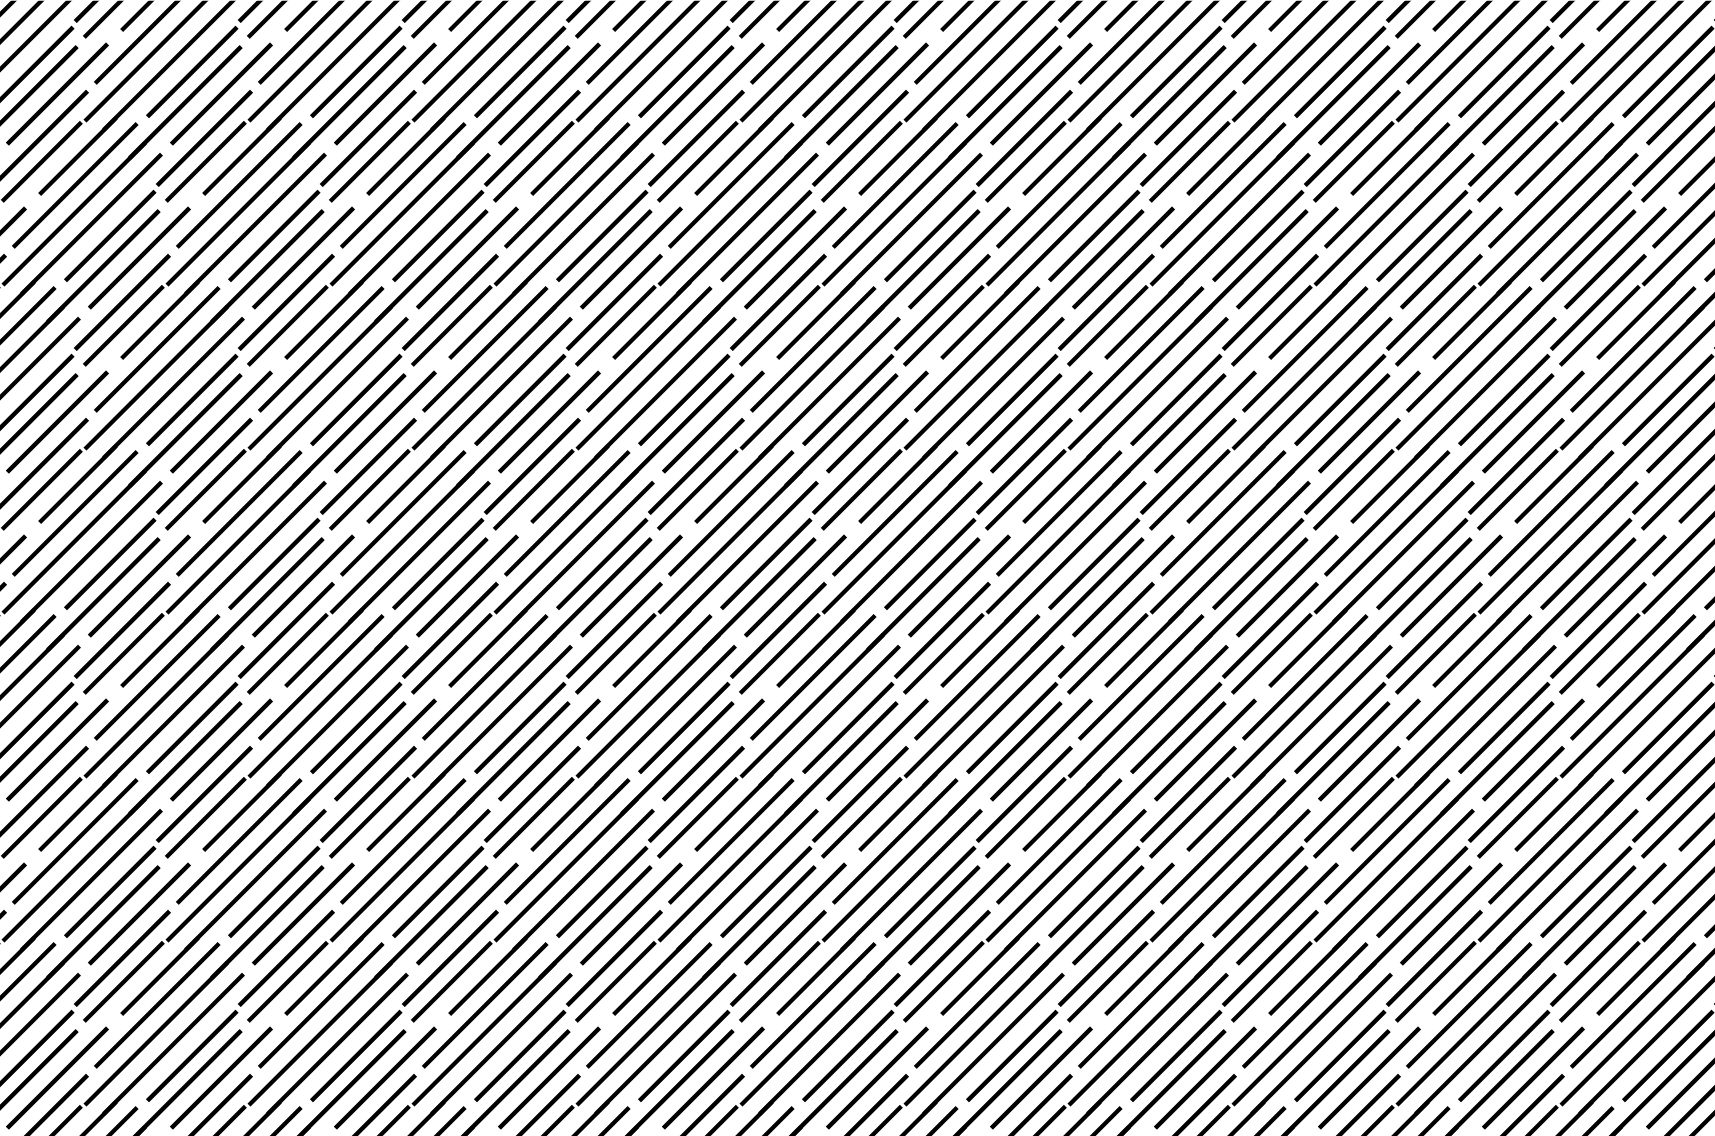
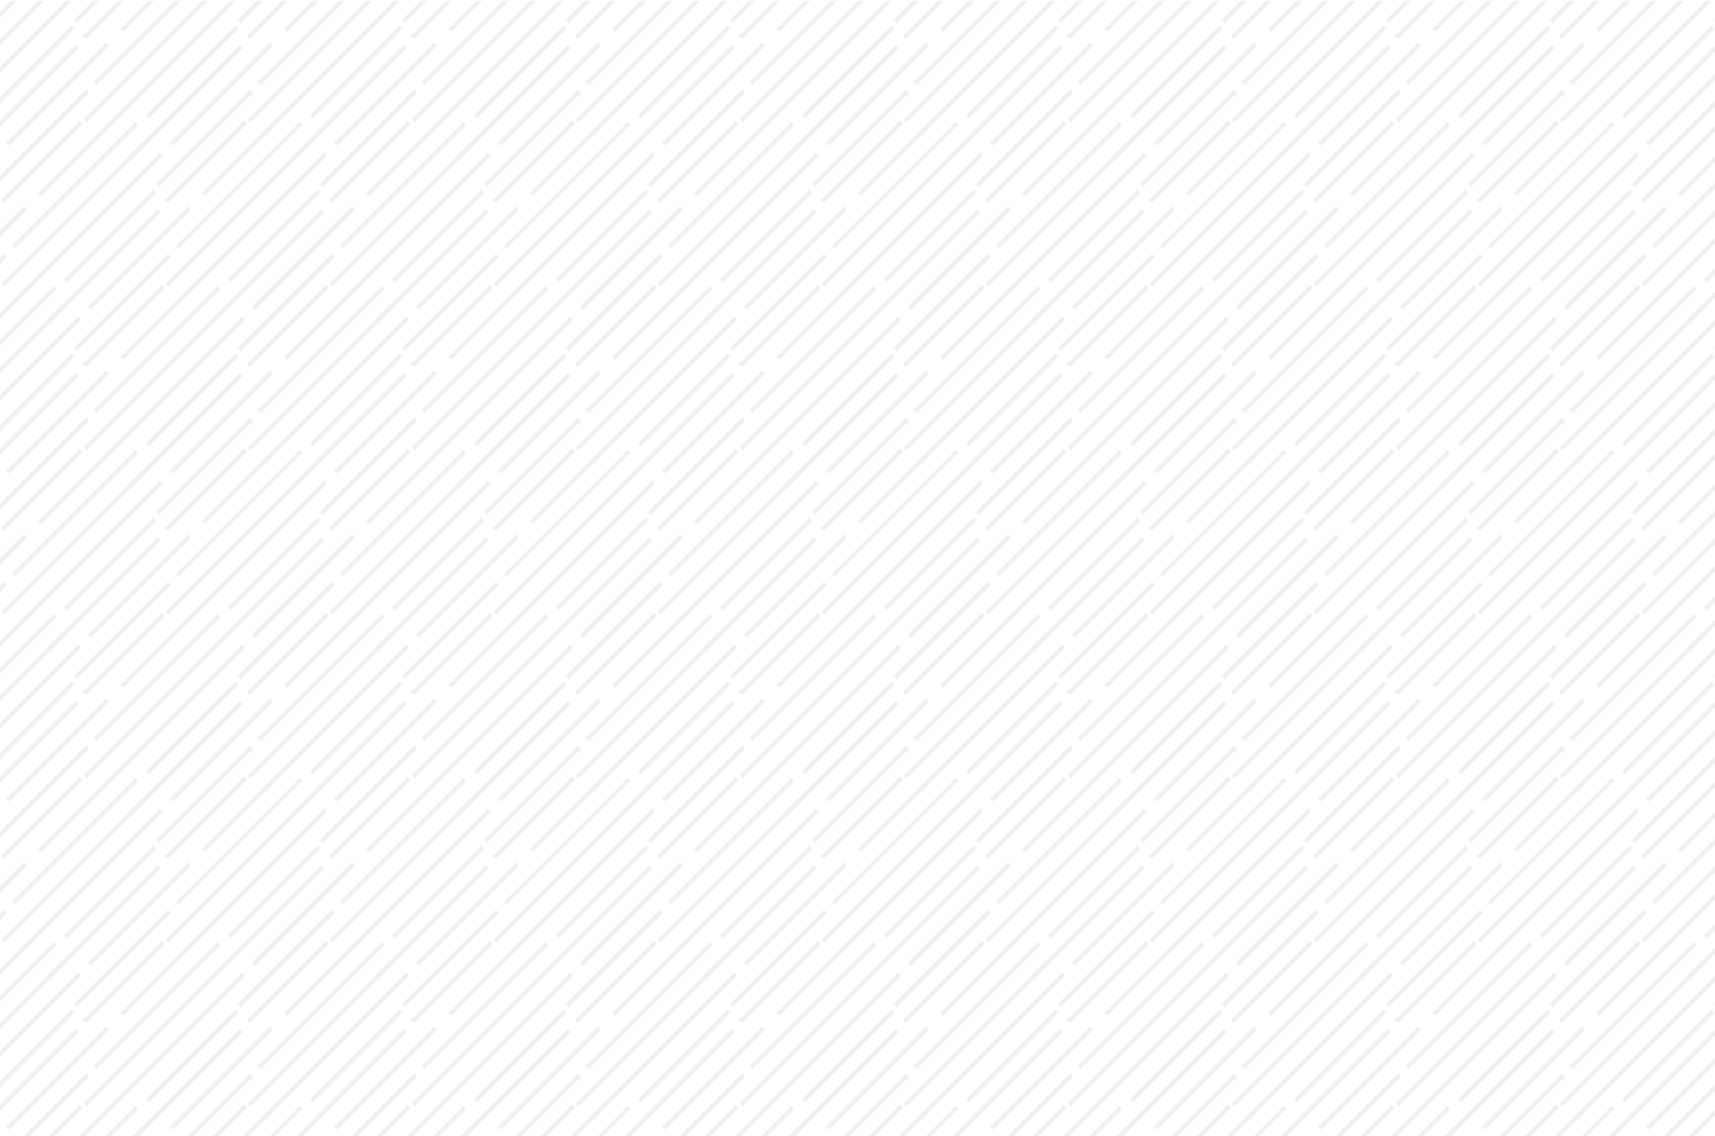
[BUGFIX] Modification of background stripped section in css and html files

Changed region(s): [[0.0, 0.0, 1.0, 1.0]]

diff --git a/index.html b/index.html
@@ -51,10 +51,7 @@
             <lottie-player src="https://assets3.lottiefiles.com/temp_editor_files/lf30_editor_8n9bsyiw.json"  background="transparent"  speed="0.8"  style="width: 150px; height: 150px;"  loop  autoplay></lottie-player>
         </div>
     </section>
-    <section>
-        <div class="hero-section ">
-            <div class="background-stripped"></div>
-        </div>
+    <section class="background-stripped">
         <div class="container pb-5">
             <div class="row pt-5">
                 <div class="col col-lg-6">
@@ -85,10 +82,7 @@
             </div>
         </div>
     </section>
-    <section id="card">
-        <div class="hero-section ">
-            <div class="background-stripped"></div>
-        </div>
+    <section id="card" class="background-stripped">
         <div class="container " style="padding-bottom: 5em; padding-top: 5em;">
             <div class="row ">
                 <h2 class="title">Quels avantages à nous rejoindre ?</h2>

diff --git a/css/style.css b/css/style.css
@@ -21,11 +21,11 @@
     }
     .background-stripped{
         background-image:url("../img/background-stripped.png");
-        opacity: 0.03;
-        background-size: cover;
+        background-size: auto;
         width: 100%;
-        min-height: 100%;
+        height: 100%;
         overflow: hidden; 
+        background-repeat: repeat;
     }
     .lottie-mobile{
         width:80%;
